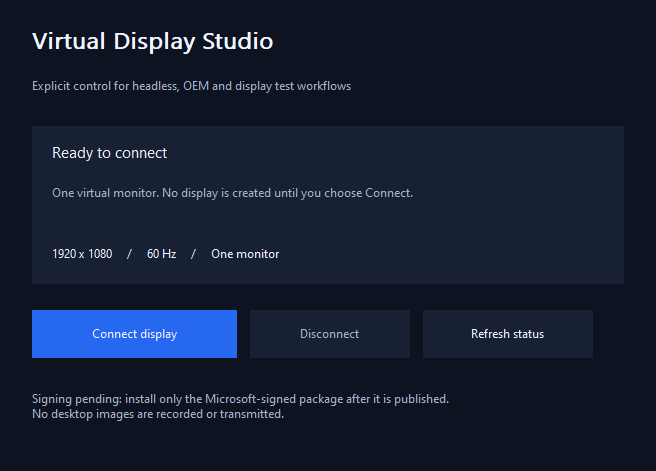
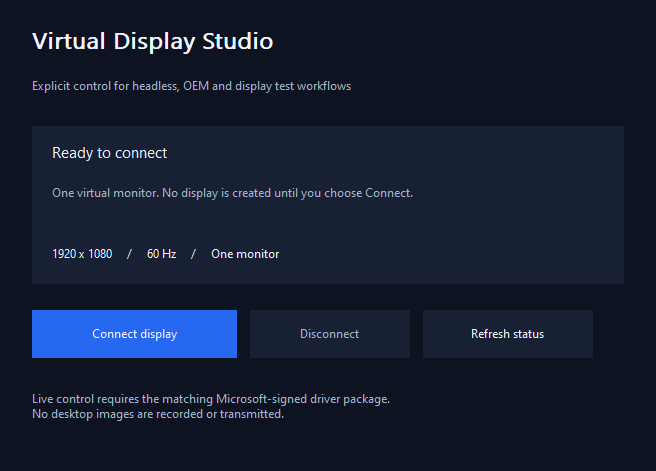
Publish validated display control SDK preview and installation guidance

Changed region(s): [[0.0305, 0.8323, 0.7012, 0.862]]

diff --git a/Installer/Setup.cpp b/Installer/Setup.cpp
@@ -5,6 +5,7 @@
 #include <wintrust.h>
 #include <softpub.h>
 #include <wincrypt.h>
+#include <mscat.h>
 #include <sddl.h>
 #include <vector>
 #include <filesystem>
@@ -30,6 +31,19 @@ bool MicrosoftCatalog(const fs::path& path){
     GUID action=WINTRUST_ACTION_GENERIC_VERIFY_V2;LONG status=WinVerifyTrust(nullptr,&action,&data);bool accepted=false;
     if(status==ERROR_SUCCESS){auto provider=WTHelperProvDataFromStateData(data.hWVTStateData);auto signer=provider?WTHelperGetProvSignerFromChain(provider,0,FALSE,0):nullptr;if(signer&&signer->csCertChain){wchar_t name[512]{};CertGetNameStringW(signer->pasCertChain[0].pCert,CERT_NAME_SIMPLE_DISPLAY_TYPE,0,nullptr,name,512);accepted=_wcsicmp(name,L"Microsoft Windows Hardware Compatibility Publisher")==0;}}
     data.dwStateAction=WTD_STATEACTION_CLOSE;WinVerifyTrust(nullptr,&action,&data);return accepted;
+}
+bool CatalogMember(const fs::path& directory,const wchar_t* name){
+    const auto path=directory/name;const auto catalog=directory/L"TitanVirtualDisplay.cat";
+    HANDLE file=CreateFileW(path.c_str(),GENERIC_READ,FILE_SHARE_READ,nullptr,OPEN_EXISTING,FILE_ATTRIBUTE_NORMAL,nullptr);
+    if(file==INVALID_HANDLE_VALUE)return false;
+    struct File{HANDLE h;~File(){CloseHandle(h);}} close{file};
+    HCATADMIN admin=nullptr;if(!CryptCATAdminAcquireContext2(&admin,nullptr,L"SHA256",nullptr,0))return false;
+    struct Admin{HCATADMIN h;~Admin(){CryptCATAdminReleaseContext(h,0);}} release{admin};
+    BYTE hash[64]{};DWORD bytes=sizeof(hash);if(!CryptCATAdminCalcHashFromFileHandle2(admin,file,&bytes,hash,0)||bytes>64)return false;
+    wchar_t tag[129]{};const wchar_t* hex=L"0123456789ABCDEF";for(DWORD i=0;i<bytes;++i){tag[i*2]=hex[hash[i]>>4];tag[i*2+1]=hex[hash[i]&15];}
+    WINTRUST_CATALOG_INFO member{};member.cbStruct=sizeof(member);member.pcwszCatalogFilePath=catalog.c_str();member.pcwszMemberTag=tag;member.pcwszMemberFilePath=path.c_str();member.hMemberFile=file;member.pbCalculatedFileHash=hash;member.cbCalculatedFileHash=bytes;member.hCatAdmin=admin;
+    WINTRUST_DATA data{};data.cbStruct=sizeof(data);data.dwUIChoice=WTD_UI_NONE;data.dwUnionChoice=WTD_CHOICE_CATALOG;data.pCatalog=&member;data.dwStateAction=WTD_STATEACTION_VERIFY;data.dwProvFlags=WTD_CACHE_ONLY_URL_RETRIEVAL|WTD_REVOCATION_CHECK_NONE;
+    GUID action=WINTRUST_ACTION_GENERIC_VERIFY_V2;LONG result=WinVerifyTrust(nullptr,&action,&data);data.dwStateAction=WTD_STATEACTION_CLOSE;WinVerifyTrust(nullptr,&action,&data);return result==ERROR_SUCCESS;
 }
 bool OwnPackage(const fs::path& path){
     GUID classId{};wchar_t className[128]{};
@@ -63,7 +77,9 @@ struct Temporary {
 };
 Setup::Result Install(){
     Temporary temp;temp.Create();
-    if(!MicrosoftCatalog(temp.directory/L"TitanVirtualDisplay.cat"))return {ERROR_INVALID_IMAGE_HASH,false,L"Installation refused: the embedded driver catalog must have a trusted Microsoft Windows Hardware Compatibility Publisher signature. This preview has not completed Microsoft signing."};
+    if(!OwnPackage(temp.directory/L"TitanVirtualDisplay.inf"))return {ERROR_INVALID_DATA,false,L"Installation refused: the embedded package does not match the exact Titan Virtual Display identity."};
+    if(!CatalogMember(temp.directory,L"TitanVirtualDisplay.inf")||!CatalogMember(temp.directory,L"TitanVirtualDisplay.dll"))return {ERROR_INVALID_IMAGE_HASH,false,L"Installation refused: embedded INF or DLL is not a trusted member of its catalog."};
+    if(!MicrosoftCatalog(temp.directory/L"TitanVirtualDisplay.cat"))return {ERROR_INVALID_IMAGE_HASH,false,L"Installation refused: the embedded driver catalog must have a trusted Microsoft Windows Hardware Compatibility Publisher signature."};
     Devices devices;devices.h=SetupDiGetClassDevsW(&GUID_DEVCLASS_DISPLAY,nullptr,nullptr,0);Require(devices.h!=INVALID_HANDLE_VALUE);
     SP_DEVINFO_DATA selected{};selected.cbSize=sizeof(selected);bool found=false;
     for(DWORD i=0;;++i){SP_DEVINFO_DATA d{};d.cbSize=sizeof(d);if(!SetupDiEnumDeviceInfo(devices.h,i,&d)){if(GetLastError()!=ERROR_NO_MORE_ITEMS)Require(false);break;}if(Ours(devices.h,d)){selected=d;found=true;break;}}
@@ -118,6 +134,7 @@ Setup::Result Uninstall(){
 unsigned Setup::Installed(DWORD* error){if(error)*error=0;try{Devices devices;devices.h=SetupDiGetClassDevsW(&GUID_DEVCLASS_DISPLAY,nullptr,nullptr,DIGCF_PRESENT);if(devices.h==INVALID_HANDLE_VALUE){if(error)*error=GetLastError();return 0;}unsigned n=0;for(DWORD i=0;;++i){SP_DEVINFO_DATA d{};d.cbSize=sizeof(d);if(!SetupDiEnumDeviceInfo(devices.h,i,&d)){DWORD e=GetLastError();if(e!=ERROR_NO_MORE_ITEMS&&error)*error=e;break;}if(Ours(devices.h,d))++n;}return n;}catch(...){if(error)*error=ERROR_NOT_ENOUGH_MEMORY;return 0;}}
 bool Setup::PackageMatches(const std::wstring& path) noexcept{try{return OwnPackage(fs::path(path));}catch(...){return false;}}
 bool Setup::CatalogTrusted(const std::wstring& path) noexcept{try{return MicrosoftCatalog(fs::path(path));}catch(...){return false;}}
+bool Setup::SignedPackageTrusted(const std::wstring& directory) noexcept{try{fs::path p=directory;return OwnPackage(p/L"TitanVirtualDisplay.inf")&&MicrosoftCatalog(p/L"TitanVirtualDisplay.cat")&&CatalogMember(p,L"TitanVirtualDisplay.inf")&&CatalogMember(p,L"TitanVirtualDisplay.dll");}catch(...){return false;}}
 Setup::Result Setup::Execute(bool install) noexcept {
     HANDLE mutex=nullptr;
     try {

diff --git a/Tests/PackageTests.cpp b/Tests/PackageTests.cpp
@@ -2,7 +2,7 @@
 #include <filesystem>
 #include <fstream>
 #include <iostream>
-int main(){
+int wmain(int count,wchar_t** args){
     namespace fs=std::filesystem;
     wchar_t temp[MAX_PATH]{};if(!GetTempPathW(MAX_PATH,temp))return 1;GUID id{};if(FAILED(CoCreateGuid(&id)))return 1;wchar_t text[40]{};StringFromGUID2(id,text,40);
     fs::path file=fs::path(temp)/(std::wstring(L"DisplayPolicy-")+text+L".inf");
@@ -17,5 +17,18 @@ int main(){
     write("ROOT\\TitanVirtualDisplay","AnotherPublisher","TitanVirtualDisplay.cat");require(!Setup::PackageMatches(file.wstring()));
     write("ROOT\\TitanVirtualDisplay","Titanfyre","AnotherDisplay.cat");require(!Setup::PackageMatches(file.wstring()));
     require(!Setup::PackageMatches((file.wstring()+L".absent")));require(!Setup::CatalogTrusted(file.wstring()+L".absent"));
+    if(count==2){
+        fs::path package=args[1];require(Setup::SignedPackageTrusted(package.wstring()));
+        fs::path copy=fs::path(temp)/(std::wstring(L"DisplaySignedPolicy-")+text);
+        require(CreateDirectoryW(copy.c_str(),nullptr)!=FALSE);
+        struct Directory{fs::path p;~Directory(){for(auto name:{L"TitanVirtualDisplay.inf",L"TitanVirtualDisplay.cat",L"TitanVirtualDisplay.dll"})DeleteFileW((p/name).c_str());RemoveDirectoryW(p.c_str());}} remove{copy};
+        for(auto name:{L"TitanVirtualDisplay.inf",L"TitanVirtualDisplay.cat",L"TitanVirtualDisplay.dll"})require(CopyFileW((package/name).c_str(),(copy/name).c_str(),TRUE)!=FALSE);
+        require(Setup::SignedPackageTrusted(copy.wstring()));
+        {std::fstream dll(copy/L"TitanVirtualDisplay.dll",std::ios::binary|std::ios::in|std::ios::out);char first=0;dll.read(&first,1);first^=1;dll.seekp(0);dll.write(&first,1);dll.close();require(!dll.fail());}
+        require(!Setup::SignedPackageTrusted(copy.wstring()));
+        require(CopyFileW((package/L"TitanVirtualDisplay.dll").c_str(),(copy/L"TitanVirtualDisplay.dll").c_str(),FALSE)!=FALSE);
+        {std::ofstream inf(copy/L"TitanVirtualDisplay.inf",std::ios::binary|std::ios::app);inf<<"\r\n; altered package\r\n";inf.close();require(!inf.fail());}
+        require(!Setup::SignedPackageTrusted(copy.wstring()));
+    }
     std::cout<<checks<<" read-only package identity/trust checks passed; no device installation.\n";return 0;
 }

diff --git a/Installer/Main.cpp b/Installer/Main.cpp
@@ -12,7 +12,7 @@ install=CreateWindowW(L"BUTTON",L"Install / reinstall",WS_CHILD|WS_VISIBLE|WS_TA
 uninstall=CreateWindowW(L"BUTTON",L"Uninstall",WS_CHILD|WS_VISIBLE|WS_TABSTOP,216,74,130,42,h,reinterpret_cast<HMENU>(2),nullptr,nullptr);
 refresh=CreateWindowW(L"BUTTON",L"Refresh",WS_CHILD|WS_VISIBLE|WS_TABSTOP,358,74,110,42,h,reinterpret_cast<HMENU>(3),nullptr,nullptr);
 restart=CreateWindowW(L"BUTTON",L"Restart Windows",WS_CHILD|WS_TABSTOP,480,74,160,42,h,reinterpret_cast<HMENU>(4),nullptr,nullptr);
-logbox=CreateWindowExW(WS_EX_CLIENTEDGE,L"EDIT",L"Microsoft signing is required before installation. The installer never enables test signing or connects a monitor automatically.",WS_CHILD|WS_VISIBLE|ES_MULTILINE|ES_READONLY|ES_AUTOVSCROLL|WS_VSCROLL,24,140,616,190,h,nullptr,nullptr,nullptr);
+logbox=CreateWindowExW(WS_EX_CLIENTEDGE,L"EDIT",L"Setup verifies the package identity, Microsoft catalog signature and INF/DLL membership before installation. It never enables test signing or connects a monitor automatically.",WS_CHILD|WS_VISIBLE|ES_MULTILINE|ES_READONLY|ES_AUTOVSCROLL|WS_VSCROLL,24,140,616,190,h,nullptr,nullptr,nullptr);
 for(auto child:{status,install,uninstall,refresh,restart,logbox})SendMessageW(child,WM_SETFONT,reinterpret_cast<WPARAM>(font),TRUE);Refresh();return 0;}
 case WM_COMMAND:if(HIWORD(w)==BN_CLICKED){switch(LOWORD(w)){case 1:Run(true);break;case 2:Run(false);break;case 3:Refresh();break;case 4:if(MessageBoxW(h,L"Restart Windows now? Save your work first.",L"Restart Windows",MB_YESNO|MB_ICONQUESTION)==IDYES&&!Setup::Restart())MessageBoxW(h,L"Windows did not accept the restart request. Restart manually.",L"Restart",MB_OK|MB_ICONERROR);break;}}return 0;
 case WM_APP+1:{std::unique_ptr<Setup::Result> r(reinterpret_cast<Setup::Result*>(l));if(worker.joinable())worker.join();busy=false;SetWindowTextW(logbox,r->detail.c_str());EnableWindow(install,TRUE);EnableWindow(uninstall,TRUE);EnableWindow(refresh,TRUE);ShowWindow(restart,r->reboot?SW_SHOW:SW_HIDE);Refresh();return 0;}

diff --git a/App/Display.cpp b/App/Display.cpp
@@ -44,9 +44,9 @@ DWORD VirtualDisplay::Execute(DisplayProtocol::Action action,DisplayProtocol::St
     }catch(...){return ERROR_NOT_ENOUGH_MEMORY;}
 }
 std::wstring VirtualDisplay::Error(DWORD error){
-    if(error==ERROR_FILE_NOT_FOUND)return L"The signed display driver is not installed. See the installation instructions.";
+    if(error==ERROR_FILE_NOT_FOUND)return L"The display control interface is unavailable. Install the matching signed package and check the device status in Device Manager.";
     if(error==ERROR_ACCESS_DENIED)return L"Administrator access is required to control the virtual display.";
-    if(error==ERROR_NOT_READY)return L"The display adapter is still starting. Wait briefly and refresh.";
+    if(error==ERROR_NOT_READY)return L"The display adapter is not ready. Refresh status to read its initialization result.";
     if(error==ERROR_BUSY)return L"Another application owns the virtual display. Close it first.";
     wchar_t* text=nullptr;
     FormatMessageW(FORMAT_MESSAGE_ALLOCATE_BUFFER|FORMAT_MESSAGE_FROM_SYSTEM|FORMAT_MESSAGE_IGNORE_INSERTS,nullptr,error,0,reinterpret_cast<LPWSTR>(&text),0,nullptr);

diff --git a/App/Main.cpp b/App/Main.cpp
@@ -23,7 +23,7 @@ void DrawScene(HDC dc,const RECT& r){
     Text(dc,52,142,r.right-48,172,status,bodyFont,Ink);
     Text(dc,52,185,r.right-52,236,detail,smallFont,Muted);
     Text(dc,52,246,r.right-48,274,L"1920 x 1080     /     60 Hz     /     One monitor",smallFont,Ink);
-    Text(dc,32,391,r.right-32,448,L"Signing pending: install only the Microsoft-signed package after it is published.\nNo desktop images are recorded or transmitted.",smallFont,Muted);
+    Text(dc,32,391,r.right-32,448,L"Live control requires the matching Microsoft-signed driver package.\nNo desktop images are recorded or transmitted.",smallFont,Muted);
 }
 bool RenderPreview(){
     Gdiplus::GdiplusStartupInput input;ULONG_PTR token{};

diff --git a/Installer/Setup.h b/Installer/Setup.h
@@ -7,5 +7,6 @@ unsigned Installed(DWORD* error=nullptr);
 Result Execute(bool install) noexcept;
 bool Restart() noexcept;
 bool PackageMatches(const std::wstring& path) noexcept;
+bool SignedPackageTrusted(const std::wstring& directory) noexcept;
 bool CatalogTrusted(const std::wstring& path) noexcept;
 }

diff --git a/docs/VALIDATION.md b/docs/VALIDATION.md
@@ -1,21 +1,41 @@
 # Validation
 
-Version 0.1.0 preview, Windows x64.
+Application/SDK preview 0.1.1; matching driver candidate 0.1.1.0, Windows x64.
 
 | Check | Result |
 | --- | --- |
-| C++ GUI, console, UI setup and console setup compilation | Pass, MSVC /W4 /WX and CFG |
-| Fixed protocol/recovery invalid action/version/size/reserved checks | Pass, 100,018 assertions |
-| Exact INF hardware/publisher/catalog policy and rejection of unsigned files | Pass, 11 assertions |
-| Protocol model under AddressSanitizer | Pass |
-| Private UMDF 2.25 / IddCx 1.4 driver compilation | Pass, WDK 26100, PREfast, /W4 /WX and CFG |
-| InfVerif Windows Driver and universal checks | Pass |
-| Inf2Cat Windows 10/11 x64 signability | Pass |
-| Microsoft-signed catalog | Pending |
-| Windows 10/11 driver installation and PnP state | Pending |
-| Physical GPU rendering, sleep/resume, process-crash cleanup | Pending |
-| Repeated connect/disconnect and device stop/start | Pending |
+| C++ app, console and both installer sources | Pass, MSVC /W4 /WX and CFG |
+| Offline protocol and failure-budget regression | Pass, 100,018 assertions |
+| Offline package identity and unsigned-file rejection | Pass, 11 assertions |
+| Returned Microsoft catalog trust and INF/DLL membership | Pass for returned 0.1.0.0 package |
+| Positive signed-package check plus altered INF/DLL rejection | Pass, 22 assertions |
+| Protocol under AddressSanitizer | Pass |
+| Private UMDF 2.25 / IddCx 1.4 compilation and PREfast | Pass, zero reported defects |
+| InfVerif /w, /u; Inf2Cat Windows 10/11 x64 | Pass for 0.1.1.0 candidate |
+| INF platform selection regression | Pass for builds 19041, 19045, 22000, 22621 and 26100; offline structure checks |
+| Corrected candidate in Windows 10 build 19045 VM | Pass: 91 checks, 32 connect/disconnect cycles |
+| Same candidate with dedicated UMDF Verifier enabled before load | Pass: 91 checks, 32 connect/disconnect cycles |
+| Admin-only access, invalid requests and ownership | Pass in VM |
+| Handle-close and abrupt client-exit monitor cleanup | Pass in VM |
+| Candidate PnP state and uninstallation | Pass; problem code 0 and exact installed DLL verified |
+| New 0.1.1.0 Microsoft-signed installation | Pending returned signature |
+| Windows 11 live installation and operation | Pending |
+| Physical Intel/AMD/NVIDIA rendering, HDR, suspend/resume and GPU loss | Not qualified; HDR is not implemented |
 
-Offline tests do not open the driver or alter display settings. Opening the GUI normally does not open a driver handle, install a device or connect a monitor. No host driver installation or virtual-display runtime test has been performed.
+The VM tests used a disposable test certificate and test mode only inside the guest. The original VM was restored with all nine historical checkpoints retained; no host installation or host security change occurred. These tests establish the exercised control/lifecycle behavior, not physical GPU rendering quality, latency, universal compatibility or production certification.
 
-The production validation matrix must include Intel/AMD/NVIDIA GPUs, hardware/remote sessions, suspend/resume, disable/enable, owner process termination, a second administrator observer, malformed IOCTL requests, abrupt device removal, driver update/uninstall and a long-running connect/disconnect loop after Microsoft signing. A compile or an INF check is not evidence that these runtime cases pass.
+## Why a fresh signature is required
+
+The original 0.1.0.0 return had a valid Microsoft signature and the submitted image content was preserved. Actual Windows 10 installation nevertheless failed with `0xE0000219`: its INF referenced `WUDFRD.inf`, an inbox file available only on Windows 11 and later. The candidate now selects an explicit reflector service on Windows 10 and the inbox Include/Needs sections on Windows 11.
+
+A second startup failure was traced to `IddCxDeviceInitConfig`, returning `STATUS_INVALID_PARAMETER` because the client configuration omitted the monitor-description parser callback. The candidate registers that callback and handles its advertised EDID-less mode without claiming to parse arbitrary external EDID content. The device then started successfully in the VM. INF/catalog and driver code changes invalidate the applicability of the earlier signature to the new package; the old signed package is not shipped as a substitute.
+
+Initialization-only ETW diagnostics expose the failing stage and NTSTATUS when explicitly enabled by support tooling. They contain no frames, inputs, application names or desktop contents, and there is no per-frame event logging.
+
+## Deployment boundaries
+
+Opening the app normally does not install a driver or create a monitor. The upcoming setup requires a matching Microsoft-signed catalog and verifies the package identity and INF/DLL membership before installation. The preview ZIP intentionally omits driver and setup binaries while the corrected signature is pending.
+
+Qualification still needs Windows 11, physical GPUs, hardware and remote sessions, device removal during active use, power transitions, graphics resets, update/rollback and longer workloads. No guarantee of zero bugs, overhead or bypass is made. Driver binaries have separate terms and retained Microsoft MS-PL notices.
+
+References: [UMDF reflector installation by Windows version](https://learn.microsoft.com/en-us/windows-hardware/drivers/wdf/adding-the-reflector), [IddCx client configuration](https://learn.microsoft.com/en-us/windows-hardware/drivers/ddi/iddcx/ns-iddcx-idd_cx_client_config), [UMDF Verifier](https://learn.microsoft.com/en-us/windows-hardware/drivers/wdf/using-umdf-verifier).

diff --git a/README.md b/README.md
@@ -6,7 +6,7 @@ Connect one 1920 x 1080 virtual monitor at 60 Hz, inspect its state and disconne
 
 ![Virtual Display Studio](docs/app.png)
 
-**Status: source preview.** The private UMDF/IddCx driver and submission CAB are built, but Microsoft signing and real-GPU runtime validation are pending. This repository does not contain an installable, Microsoft-signed driver yet. The preview application opens without changing your display configuration. No monitor is created at installation, Windows startup or normal application startup.
+**Status: application/SDK preview.** The matching Windows 10/11 driver package 0.1.1.0 is awaiting Microsoft signing and further runtime qualification. The release ZIP contains the application, SDK, console control and installer source; it does not include an unsigned driver or a setup executable. The application opens without changing your display configuration. No monitor is created at installation, Windows startup or normal application startup.
 
 ## What it does
 
@@ -37,7 +37,7 @@ DisplayControl.exe connect
 
 Run the console as administrator. `connect` waits for Enter, then closes the handle and disconnects. A second application can query the monitor but cannot steal an existing connection. The display starts disconnected after suspend or a device restart; choose Connect again.
 
-Uninstall with the UI or `VirtualDisplaySetupConsole.exe /uninstall`. Enterprise setup supports `/install` and `/uninstall`; exit `3010` means a restart is required. The installer verifies a trusted Microsoft hardware-publisher catalog before it attempts installation. No test-signing or Secure Boot setting is changed.
+Uninstall with the UI or `VirtualDisplaySetupConsole.exe /uninstall`. Enterprise setup supports `/install` and `/uninstall`; exit `3010` means a restart is required. The installer verifies the exact package identity, a trusted Microsoft hardware-publisher catalog and INF/DLL catalog membership before it attempts installation. No test-signing or Secure Boot setting is changed.
 
 ## Build the public application
 
@@ -77,7 +77,7 @@ Compile `App/Display.cpp` and link `setupapi.lib`. Use `Action::Query` for state
 
 ## Validation and limitations
 
-The x64 application and private driver compile with warnings as errors. Offline fixed-protocol/recovery checks, package identity/trust checks, AddressSanitizer protocol checks, Microsoft InfVerif and Inf2Cat checks pass. Five swapchain failures within a minute stop the virtual monitor through a deferred work item; the driver stays disconnected until an explicit device restart, avoiding an endless recreation loop. These checks **do not validate GPU operation**. Signed installation, monitor connection, process termination, sleep/resume and Windows 10/11 GPU tests are pending. See [validation details](docs/VALIDATION.md).
+The x64 application and private driver compile with warnings as errors. Offline protocol/recovery checks, installer package identity/trust checks, tampered INF/DLL rejection, AddressSanitizer protocol checks, InfVerif and Inf2Cat checks pass. The corrected driver candidate passed 91 checks and 32 connect/disconnect cycles on Windows 10 build 19045 in normal mode and with UMDF Verifier enabled, including administrator access checks, ownership and abrupt process cleanup. These VM tests used a temporary lab signature, not a Microsoft signature for the new package. Final signed-package installation, Windows 11 and physical GPU rendering/suspend/resume qualification remain pending. See [validation details](docs/VALIDATION.md).
 
 This preview supports one 1080p60 SDR monitor. It has no HDR, variable refresh rate, streaming, audio transport or secure trial/licensing mechanism. There is no guarantee of a particular GPU, game, remote-desktop or capture application's behavior. Existing free virtual display drivers are available; this project focuses on an explicit integration interface and operator-controlled lifetime.
 
